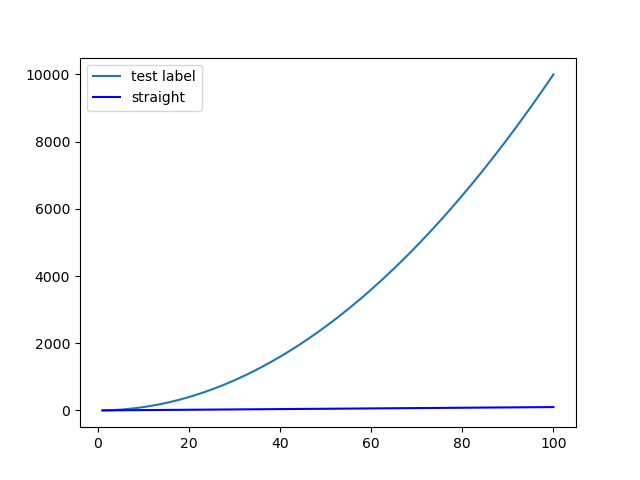
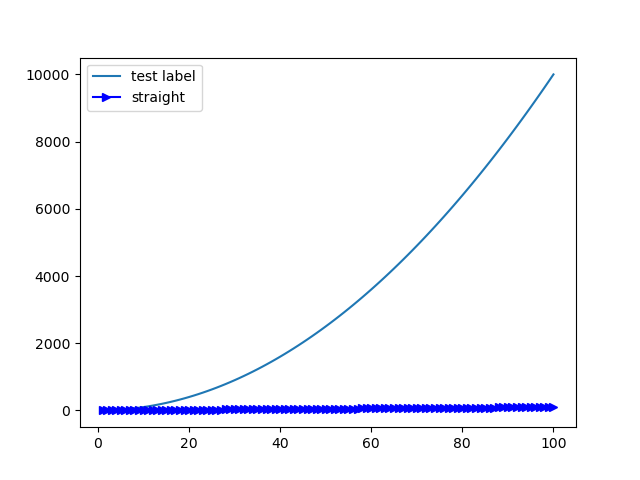
Addition: errors and exceptions

Changed region(s): [[0.1562, 0.8125, 0.875, 0.875], [0.1562, 0.1875, 0.1875, 0.2188]]

diff --git a/week9/messingWithExcept.py b/week9/messingWithExcept.py
@@ -1,0 +1,21 @@
+# most of this will be unworkable, don't try to run it without commenting out everything but the line you need
+
+# SyntaxError
+# var = 2 +
+
+# ZeroDivisionError
+# zero = 10/0
+
+# FileNotFoundError
+
+file = 'data.txt'
+try:
+    with open(file) as f:
+        print(f.read())
+# it is wise to write except statements for particular errors or scenarios to make life easier when debugging
+except FileNotFoundError:
+    print(f"No file with the name {file} was located")
+except:
+    print("Some other error")
+finally:
+    print("This will always be printed")

diff --git a/week8/introMatPlotLib.py b/week8/introMatPlotLib.py
@@ -6,7 +6,7 @@ ypoints = xpoints * xpoints
 
 # can plot multiple items in one file
 plt.plot(xpoints,ypoints,label="test label")
-plt.plot(xpoints,xpoints,label="straight", color="blue")
+plt.plot(xpoints,xpoints,label="straight", color="blue", marker=">")
 plt.legend()
 
 # saves file to current location, using show() will open the file
